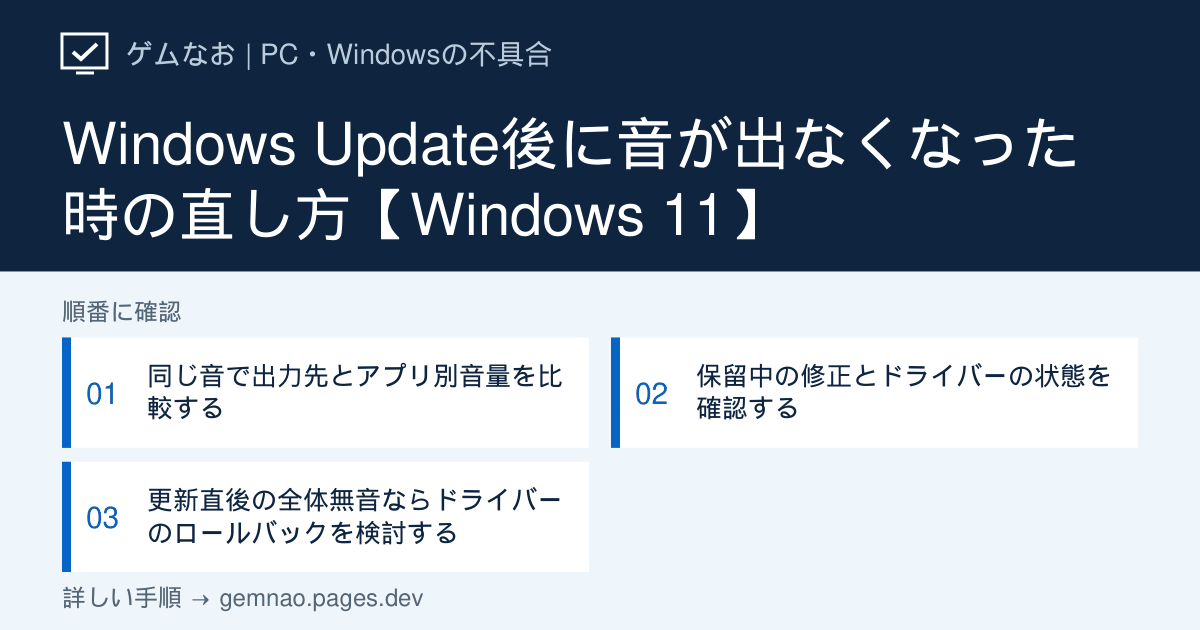
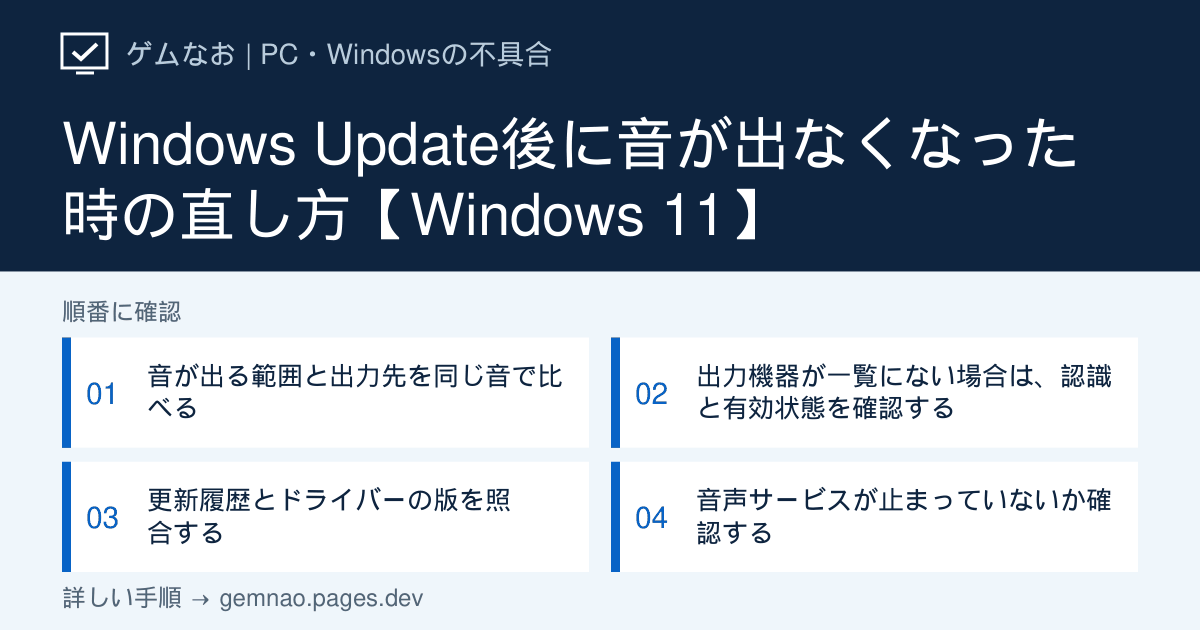
Improve Windows Update audio troubleshooting guide

diff --git a/lib/pc-articles.ts b/lib/pc-articles.ts
@@ -625,94 +625,141 @@ export const pcArticles: PcArticle[] = [
     slug: 'audio-after-update',
     title: 'Windows Update後に音が出なくなった時の直し方【Windows 11】',
     shortTitle: '更新後に音が出なくなった',
-    seoTitle: 'Windows Update後に音が出ない時の確認と直し方｜Windows 11',
+    seoTitle: 'Windows Update後に音が出ない時の直し方｜Windows 11',
     description:
-      'Windows Update直後に音が出なくなった場合の出力先、アプリ別音量、ドライバーの版とロールバックを順に確認。音が戻ったかを同じ音で検証し、設定の戻し方も説明。',
-    lead: '更新した後、スピーカー・イヤホンから音が出なくなった場合の手順です。「システム音は鳴るがゲームだけ無音」はアプリ別の設定から調べます。',
+      'Windows 11の更新後に音が出ない時は、出力機器の有無と全アプリ・特定アプリの違いで対処を分けます。出力先、認識の確認、ドライバーを戻す方法、更新の削除条件まで結果別に解説。',
+    lead: 'Windows Updateの後にスピーカーやイヤホンが無音になったら、まず出力機器が一覧にあるか、どのアプリも鳴らないかを分けます。更新した日時だけで原因を決めず、同じ音で変更前後を比べます。',
     answer:
-      'まずWindowsの出力先とミュートを確認し、同じ動画を再生して比較します。アプリだけ無音なら音量ミキサー。すべて無音で更新直後から変化した場合は、Windows Updateの履歴とオーディオドライバーの版を確認し、以前の版が残る場合にロールバックを検討します。',
+      'Windows 11の更新後に音が出ない時は「設定→システム→サウンド→出力」で機器名とミュートを確認します。ゲームなど一部だけ無音なら音量ミキサーへ。出力機器が一覧にないならデバイスマネージャーで認識を確認し、更新直後にドライバーが変わった場合は以前の版へ戻せるか調べます。更新プログラムの削除は最後に対象を特定して検討します。',
     quickChecks: [
-      '更新日時、出力機器名、動画とシステム音の結果を記録',
-      '設定→システム→サウンドの出力と音量ミキサーを確認',
-      'すべて無音ならデバイスマネージャーでドライバーの版と更新前後を比較',
+      '「設定→システム→サウンド→出力」に使う機器名があるか見る',
+      '同じ動画を別のアプリでも鳴らし、「全部無音／一部だけ無音」を分ける',
+      '「設定→Windows Update→更新の履歴」で日時とKB番号を控える',
     ],
     diagnosis: [
       {
-        symptom: 'システム音は鳴るがゲームだけ無音',
-        check: '音量ミキサーのアプリ別音量・出力先',
+        symptom: 'ブラウザーは鳴るがゲームだけ無音',
+        check: 'ゲームを再生しながら音量ミキサーを見る',
         next: 1,
       },
       {
         symptom: 'すべてのアプリで無音、出力機器はある',
-        check: '出力先・ミュート・更新履歴・ドライバー版',
+        check: '正しい出力先・ミュートを先に確認',
+        next: 1,
+      },
+      {
+        symptom:
+          '出力機器が一覧にない／「出力デバイスがインストールされていません」',
+        check: 'デバイスマネージャーで有効状態・再検出を調べる',
         next: 2,
       },
       {
-        symptom: 'サウンド設定に出力機器がない',
-        check: 'デバイスマネージャーの警告・ドライバー',
-        next: 2,
-      },
-      {
-        symptom: '更新直後から再起動後もすべて無音',
-        check: '以前のドライバー版が残るか、サービスが動いているか',
+        symptom: '出力機器はあるがSTEP 1後も全アプリで無音',
+        check: '更新履歴とドライバーの版・戻せるかを確認',
         next: 3,
+      },
+      {
+        symptom: 'ドライバーを確認しても無音／音声サービスが停止している',
+        check: 'Windows Audioなどの状態を確認',
+        next: 4,
+      },
+      {
+        symptom: 'STEP 1～4でも無音で、特定の更新が原因と疑われる',
+        check: 'KB番号を照合し、回復か対象の削除を検討',
+        next: 5,
       },
     ],
     steps: [
       {
-        title: '同じ音で出力先とアプリ別音量を比較する',
+        title: '音が出る範囲と出力先を同じ音で比べる',
         actions: [
-          '設定→Windows Update→更新の履歴で直前の更新日時を控える。更新が原因と決めつけず、同時に出力先も確認する。',
-          'スタート→設定→システム→サウンド→出力でスピーカー／イヤホンの機器名を選び、音量とミュートを確認。動画を再生して音がどこから出るか見る。',
-          'システム音は鳴るのに動画・ゲームだけ無音なら「音量ミキサー」で対象アプリのミュート、音量、出力先を見る。アプリの音声を再生しながら開く。',
+          '同じ短い動画を再生し、別のアプリでも音が出るか比べる。使いたいスピーカー・イヤホンの電源や本体のミュートも確認する。',
+          'スタート→設定→システム→サウンド→「出力」で使いたい機器名を選び、音量とミュートを確認する。例：HDMIモニターから鳴っていてPCのスピーカーからは鳴らないなら、出力先を「スピーカー」に変えて同じ動画で比べる。',
+          'ブラウザーは鳴るのにゲームだけ無音なら、ゲームで音を再生したまま「設定→システム→サウンド→音量ミキサー」を開き、ゲームのミュート・音量・出力先を確認する。',
         ],
         expected:
-          '出力先やミキサーを直したら同じ動画が聞こえる場合、設定の食い違いが原因候補。',
+          '出力先やゲームの音量を直して聞こえれば、無音の直接の原因として出力先・アプリ別設定が考えられる。更新が設定変更のきっかけだった可能性は残る。',
         unexpected:
-          'スピーカー・イヤホンのどちらも無音ならSTEP 2。出力の一覧に何もないなら機器の認識状況を優先。',
-        revert: '変更前に控えた出力先・音量・アプリ別設定へ戻す。',
+          '出力に機器がないならSTEP 2へ。機器はあるが別のアプリでも無音ならSTEP 3へ。ゲームだけ無音のままならゲーム内の出力設定も確認する。',
+        revert:
+          '出力先や音量を変更した場合は、比較前に控えた機器・数値へ戻せる。音が戻った設定は維持してよい。',
       },
       {
-        title: '保留中の修正とドライバーの状態を確認する',
+        title: '出力機器が一覧にない場合は、認識と有効状態を確認する',
         actions: [
-          '設定→Windows Update→「更新プログラムのチェック」。インストールする際は作業中のデータを保存し、再起動後に同じ音で比較する。',
-          'スタートで「デバイス マネージャー」を検索→「サウンド、ビデオ、およびゲーム コントローラー」で使用機器のプロパティを開く。「全般」の状態と「ドライバー」タブの版・日付を記録する。',
-          '黄色い警告がある／古いドライバーが疑われる場合はPC製造元の対応版を確認。出所不明の自動更新ツールは使わない。',
+          'スタートを右クリック→「デバイス マネージャー」。「サウンド、ビデオ、およびゲーム コントローラー」と「オーディオの入力および出力」を開き、使っていた機器があるかを見る。機器がないのに、その機器のプロパティを開こうとしない。',
+          '機器が見当たらない場合は「表示→非表示のデバイスの表示」、次に「操作→ハードウェア変更のスキャン」を実行する。名前が出た場合でも、以前接続した機器が非表示で残っていることがあるため、実際の接続と照合する。',
+          '機器に「デバイスを有効にする」が表示される場合は有効にして「サウンド→出力」を見直す。黄色い警告がある場合は右クリック→「プロパティ→全般→デバイスの状態」のエラー文とコードを控える。',
+          'スキャン後も機器が現れなければWindowsキー＋R→「msinfo32」で「システム モデル」を控え、PC製造元のサポートページでその機種のWindows 11対応オーディオドライバーを探す。組み立てPCなら「ベースボード製品」などからマザーボードの型番を確認する。',
         ],
         expected:
-          '更新または再起動後に同じ出力先から音が戻れば、何を変更したか履歴に残す。',
+          '「出力」に機器が戻ればSTEP 1の音量と同じ動画を再確認する。警告があればコードを手掛かりに機器・ドライバーを調べられる。',
         unexpected:
-          '直前の更新とドライバー変更が重なり、再起動してもすべて無音ならSTEP 3。',
+          '機種に合うドライバーが見つからない／導入後も機器が現れない場合は型番を添えて製造元へ。警告がある／機器はあるが無音ならSTEP 3へ。',
         revert:
-          'Windows更新は設定を単純に元へ戻せない場合がある。特定の更新を削除する前に修正プログラムの有無を確認し、管理PCなら管理者へ。',
+          '表示とスキャンだけなら変更はない。有効化して音が戻った場合は無効に戻す必要はない。無関係な機器を誤って切り替えた場合だけ元の状態に戻す。',
       },
       {
-        title: '更新直後の全体無音ならドライバーのロールバックを検討する',
+        title: '更新履歴とドライバーの版を照合する',
         actions: [
-          'デバイス マネージャー→該当オーディオ機器→プロパティ→「ドライバー」で「ドライバーを元に戻す」が押せるか確認。元の版・日付を控える。',
-          '以前の版がある場合のみロールバックを実行し、再起動後にSTEP 1と同じ動画と出力先で比較。押せない場合は前の版が保存されていないため無理に探さない。',
-          'ロールバックできず音がない場合、スタートで「サービス」を検索→「Windows Audio」「Windows Audio Endpoint Builder」の状態を確認。停止しているならMicrosoftの案内に沿って再起動を検討。管理PCは管理者へ。',
+          '「設定→Windows Update→更新の履歴」で更新した日時とKB番号を控える。同じ日付というだけで原因は断定できない。',
+          '「設定→Windows Update→更新プログラムのチェック」で修正更新があるか確認する。インストールする場合は作業を保存し、再起動後にSTEP 1と同じ出力先・動画で比べる。',
+          'まだ無音ならデバイス マネージャー→「サウンド、ビデオ、およびゲーム コントローラー」→実際に使う音声機器→「プロパティ→ドライバー」で版と日付を控える。更新後から不具合が出て「ドライバーを元に戻す」が押せる場合は、以前の版へ戻して再起動し比較する。押せない場合はPC・機器製造元の対応版を確認する。',
         ],
         expected:
-          '以前の版に戻した後、同じ音が聞こえるならドライバー変更が関係した可能性がある。',
+          '修正更新後やドライバーを戻した後に同じ動画が聞こえれば、実施した変更と前後の版を記録する。',
         unexpected:
-          '音が戻らない／サービスが再び止まるなら機器名・コード・更新履歴をPC製造元へ伝える。重大な更新を無計画に削除しない。',
+          '機器が出ないままならSTEP 2の結果を製造元へ伝える。機器はあるが無音のままならSTEP 4で音声サービスを確認する。',
         revert:
-          'ロールバック後に別の不具合があれば、記録した版を伝えてPC製造元の適合ドライバーへ更新を相談。変更した出力先も元へ。',
+          'ロールバック後に別の不具合が出たら、控えた版を確認して製造元が案内する適合ドライバーに戻す。Windows更新は設定スイッチのようには取り消せないため、削除の条件はSTEP 5で確認する。',
+      },
+      {
+        title: '音声サービスが止まっていないか確認する',
+        actions: [
+          '作業を保存し、Windowsキー＋R→「services.msc」→Enterでサービス一覧を開く。',
+          '「Windows Audio」と「Windows Audio Endpoint Builder」の状態を見る。停止していれば「開始」、実行中でも音が戻らなければMicrosoftの案内どおり、それぞれ右クリックして「再起動」を試す。',
+          'それぞれ操作した後、STEP 1と同じ動画を同じ出力機器で再生し、何をした時に音が戻ったか控える。',
+        ],
+        expected:
+          'サービスの起動・再起動後に音が戻れば、起動状態が関係していた可能性がある。次のPC再起動後も鳴るか確認する。',
+        unexpected:
+          'サービスが再び停止する／起動時にエラーが出る場合は表示文を控えてPC製造元や管理者へ。正常に動いていても無音なら、STEP 5で更新との関係を見直す。',
+        revert:
+          '状態を見ただけなら元に戻す操作はない。音声に必要なサービスが動いて音が戻った場合、元の停止状態へ戻さない。',
+      },
+      {
+        title: '特定の更新が原因と疑われる時だけ回復・削除を検討する',
+        actions: [
+          'STEP 1～4で改善しなかった場合、「設定→Windows Update→更新の履歴」の日付とKB番号を再確認する。更新が同じ日にあっただけでは原因確定にはならない。',
+          'Windows 11で「設定→システム→回復→Windows Updateを使用して問題を解決する→今すぐ再インストール」が表示される場合、Microsoftはセキュリティ更新の削除前にこの修復方法を案内している。実行前に重要なデータを確認し、電源・ネット接続を維持する。アプリ・ファイル・設定は保持する方式だが、再起動と時間が必要。',
+          '修復でも解決せず、対象のKBが「設定→Windows Update→更新の履歴→更新プログラムをアンインストール」に表示される場合は、その更新だけを選んで削除を検討する。一部の更新は削除不可。セキュリティ更新には削除によるリスクがあるため、管理PCなら管理者と判断する。',
+          '削除した場合は再起動後、STEP 1と同じ出力先・動画で比較する。変化がなければ別の更新を続けて削除せず、KB番号・ドライバー版・結果を控えて相談する。',
+        ],
+        expected:
+          '特定の修復または更新の削除後にだけ音が戻った場合は、変更したKB番号と再起動後の結果を記録する。',
+        unexpected:
+          '該当KBが一覧にない、回復項目が表示されない、削除しても変化がない場合は別のKBを推測して削除せず、記録を添えてメーカーやMicrosoftの窓口へ。',
+        revert:
+          '修復再インストールは単純に元へ戻せない。削除した更新は、対策や新しい更新の公開後にWindows Updateで再導入を確認する。',
       },
     ],
     escalation:
-      '更新日時とKB番号、Windowsの出力に出る機器名、同じ動画の結果、アプリ別ミキサー、ドライバーの版・日付、ロールバックの可否を控えます。別の更新プログラムを削除する前に、公式の影響情報と組織の管理者・PC製造元へ相談してください。',
+      '相談時は、PCの型番、更新の日時とKB番号、出力に表示された機器名、同じ動画を再生した結果、デバイスマネージャーのエラー文、ドライバー版、音声サービスの状態をまとめます。出力機器が消えたままなら、対象機器のプロパティ操作を前提にせず製造元へ伝えてください。',
     faqs: [
       {
-        question: '更新をすぐアンインストールすべきですか？',
+        question: '更新プログラムは削除できますか？',
         answer:
-          'まず出力先とミキサーを確認し、修正プログラムとドライバーの状態を調べます。Microsoftは更新プログラムの削除を通常は推奨せず、削除できない更新もあります。',
+          'Microsoftは、問題を起こした更新プログラムのアンインストールを対処として案内しています。ただし更新直後というだけでは原因を確定できず、一部は削除できません。セキュリティ更新の削除前にはリスクを確認し、Windows 11では同じバージョンの修復再インストールも先に検討してください。',
       },
       {
         question: 'ドライバーを元に戻すボタンが押せません',
         answer:
-          '以前のドライバーが保存されていない場合は利用できません。PC製造元の対応版とMicrosoftの音声トラブル手順を確認してください。',
+          '前の版が保存されていないと利用できません。無関係な機器を選んでいないか確認し、PC・音声機器の型番から製造元の適合ドライバーを調べてください。',
+      },
+      {
+        question: '更新後、HDMIモニターに映像は出るのにPCから音が聞こえません',
+        answer:
+          '出力先がHDMIモニターへ変わっている例があります。STEP 1の「出力」でPCのスピーカーを選び、同じ動画を再生して比べてください。スピーカーが一覧にないならSTEP 2へ進みます。',
       },
     ],
     sources: [
@@ -725,8 +772,20 @@ export const pcArticles: PcArticle[] = [
         'アプリだけ無音の確認',
       ),
       ms(
+        'hardware/audio/fix-missing-or-undetected-audio-output-device-in-windows',
+        '出力機器が表示されない場合',
+      ),
+      ms(
+        'hardware/drivers/error-codes-in-device-manager-in-windows',
+        'デバイスの状態に表示されたエラーコード',
+      ),
+      ms(
         'deployment/updates-lifecycle/how-to-uninstall-a-windows-update',
         'Windows Updateの削除条件',
+      ),
+      ms(
+        'deployment/install-upgrade/fix-issues-by-reinstalling-the-current-version-of-windows',
+        '現在のバージョンを修復再インストール',
       ),
     ],
     related: [
@@ -740,7 +799,7 @@ export const pcArticles: PcArticle[] = [
       },
       { href: '/guide/no-game-audio', label: 'ゲームだけ音が出ない場合' },
     ],
-    checkedAt: '2026-09-28',
+    checkedAt: '2026-09-29',
   },
 ];
 

diff --git a/lib/og-image-manifest.ts b/lib/og-image-manifest.ts
@@ -113,7 +113,7 @@ export const ogImageManifest: Record<string, string> = {
   "/guide/vram-shortage": "733be1c8",
   "/new-releases/2026-10": "97afdc04",
   "/pc": "a0324572",
-  "/pc/audio-after-update": "8d2f79f2",
+  "/pc/audio-after-update": "fb1c9249",
   "/pc/bluetooth-connected-no-sound": "c15b1535",
   "/pc/call-starts-audio-disappears": "045c5c84",
   "/pc/microphone-after-update": "1d673823",
